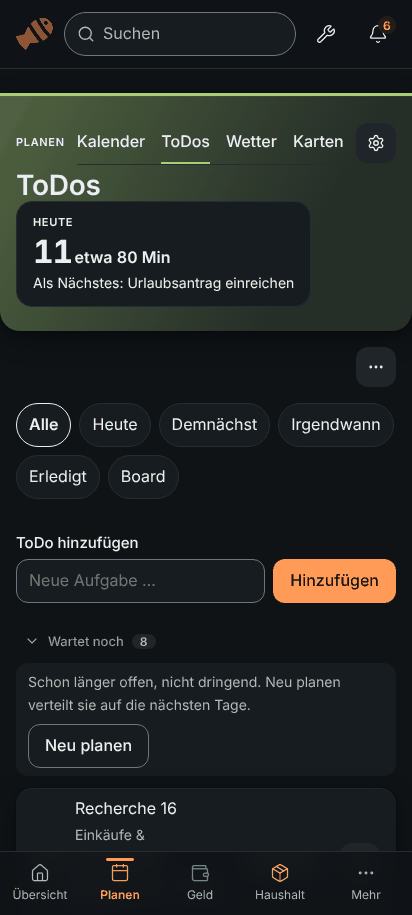
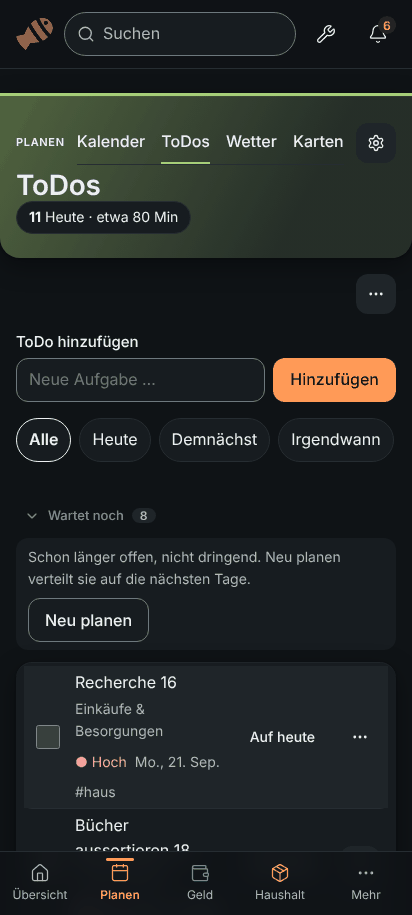
fix(todos): keep the add field and the rows high on a phone (view bar below the add field, one-line Heute card); stimulus baseline for the phone view bar
Claude-Session: https://claude.ai/code/session_019RrxT5jGqn1v3Nuo8286Ce

diff --git a/web/src/modules/todos/routes/TodosPage.tsx b/web/src/modules/todos/routes/TodosPage.tsx
@@ -615,64 +615,6 @@ export default function TodosPage() {
         </HeroSlot>
       ) : null}
 
-      <div className={styles.toolbar}>
-        <div className={styles.tagBar} role="group" aria-label={t.todos.views.label}>
-          {PAGE_VIEWS.map((v) => (
-            <button
-              key={v}
-              type="button"
-              className={styles.tagChip}
-              aria-pressed={pageView === v}
-              onClick={() => setParam('view', v === 'list' ? null : v)}
-            >
-              {v === 'list' ? t.todos.views.all : t.todos.views[v]}
-            </button>
-          ))}
-        </div>
-      </div>
-      {/* Tags are an advanced feature: the chips show in "Mehr Felder" mode or while a tag filters. */}
-      {tagList.length > 0 && (advanced || tag) ? (
-        <div className={styles.tagBar} role="group" aria-label={t.todos.tags.filter}>
-          <button
-            type="button"
-            className={styles.tagChip}
-            aria-pressed={tag === ''}
-            onClick={() => setParam('tag', null)}
-          >
-            {t.todos.tags.all}
-          </button>
-          {tagList.map(([name, n]) => (
-            <button
-              key={name}
-              type="button"
-              className={styles.tagChip}
-              aria-pressed={tag === name}
-              onClick={() => setParam('tag', tag === name ? null : name)}
-            >
-              {`#${name} · ${n}`}
-            </button>
-          ))}
-        </div>
-      ) : null}
-      {project ? (
-        <div className={styles.projectBar} data-testid="project-bar">
-          <div
-            className={styles.projectTrack}
-            role="progressbar"
-            aria-label={currentList?.name}
-            aria-valuemin={0}
-            aria-valuemax={project.total}
-            aria-valuenow={project.done}
-          >
-            <div
-              className={styles.projectFill}
-              style={{ width: `${project.total ? (project.done / project.total) * 100 : 0}%` }}
-            />
-          </div>
-          <span>{t.todos.projectProgress(project.done, project.total)}</span>
-        </div>
-      ) : null}
-
       <PersonFilter usedIds={(tasks ?? []).flatMap((x) => (x.personId ? [x.personId] : []))} />
       <div className={styles.layout}>
         <div className={styles.main}>
@@ -689,6 +631,64 @@ export default function TodosPage() {
               {t.actions.add}
             </Button>
           </form>
+
+          <div className={styles.toolbar}>
+            <div className={styles.viewBar} role="group" aria-label={t.todos.views.label}>
+              {PAGE_VIEWS.map((v) => (
+                <button
+                  key={v}
+                  type="button"
+                  className={styles.tagChip}
+                  aria-pressed={pageView === v}
+                  onClick={() => setParam('view', v === 'list' ? null : v)}
+                >
+                  {v === 'list' ? t.todos.views.all : t.todos.views[v]}
+                </button>
+              ))}
+            </div>
+          </div>
+          {/* Tags are an advanced feature: the chips show in "Mehr Felder" mode or while a tag filters. */}
+          {tagList.length > 0 && (advanced || tag) ? (
+            <div className={styles.tagBar} role="group" aria-label={t.todos.tags.filter}>
+              <button
+                type="button"
+                className={styles.tagChip}
+                aria-pressed={tag === ''}
+                onClick={() => setParam('tag', null)}
+              >
+                {t.todos.tags.all}
+              </button>
+              {tagList.map(([name, n]) => (
+                <button
+                  key={name}
+                  type="button"
+                  className={styles.tagChip}
+                  aria-pressed={tag === name}
+                  onClick={() => setParam('tag', tag === name ? null : name)}
+                >
+                  {`#${name} · ${n}`}
+                </button>
+              ))}
+            </div>
+          ) : null}
+          {project ? (
+            <div className={styles.projectBar} data-testid="project-bar">
+              <div
+                className={styles.projectTrack}
+                role="progressbar"
+                aria-label={currentList?.name}
+                aria-valuemin={0}
+                aria-valuemax={project.total}
+                aria-valuenow={project.done}
+              >
+                <div
+                  className={styles.projectFill}
+                  style={{ width: `${project.total ? (project.done / project.total) * 100 : 0}%` }}
+                />
+              </div>
+              <span>{t.todos.projectProgress(project.done, project.total)}</span>
+            </div>
+          ) : null}
 
           {inboxOpen.length > 0 && (selected === ALL || selected === INBOX_ID) ? (
             <div className={styles.waiting} data-testid="todos-inbox">

diff --git a/web/src/modules/todos/components/TodayCard.tsx b/web/src/modules/todos/components/TodayCard.tsx
@@ -1,3 +1,4 @@
+import { useMediaQuery } from '@/ui';
 import { HeroFigure } from '@/ui/identity';
 import { t } from '@/strings';
 import { pickNext, type PickTask } from '../next';
@@ -13,6 +14,8 @@ type CardTask = PickTask & Pick<Task, 'title' | 'startDate'>;
  * the numbers are text. Empty day = a calm sentence instead of a zero.
  */
 export function TodayCard({ tasks, day }: { tasks: readonly CardTask[]; day: string }) {
+  // A phone keeps the head short: one line instead of the three-line figure.
+  const narrow = useMediaQuery('(max-width: 700px)');
   const today = tasks.filter((x) => !x.parentId && viewOf(x, day) === 'today');
   const minutes = today.reduce((sum, x) => sum + (x.estimateMin ?? 0), 0);
   const next = pickNext(today, day);
@@ -21,6 +24,14 @@ export function TodayCard({ tasks, day }: { tasks: readonly CardTask[]; day: str
     : today.length === 0
       ? t.todos.todayCard.done
       : undefined;
+  if (narrow)
+    return (
+      <p className={styles.todayLine} data-testid="today-card">
+        <strong data-testid="today-count">{today.length}</strong> {t.todos.todayCard.label}
+        {minutes > 0 ? ` · ${t.todos.todayCard.minutes(minutes)}` : ''}
+        <span className="sr-only">{`. ${t.todos.todayCard.count(today.length)}`}</span>
+      </p>
+    );
   return (
     <div className={styles.todayCard} data-testid="today-card">
       <HeroFigure

diff --git a/web/src/modules/todos/routes/todos.module.css b/web/src/modules/todos/routes/todos.module.css
@@ -360,3 +360,27 @@
     animation: none;
   }
 }
+
+/* The view chips are one scrollable row, so the list stays high on a phone. */
+.viewBar {
+  display: flex;
+  flex-wrap: nowrap;
+  gap: var(--space-2);
+  overflow-x: auto;
+  padding-bottom: var(--space-1);
+  margin-bottom: var(--space-3);
+}
+.viewBar .tagChip {
+  flex: none;
+}
+
+.todayLine {
+  margin: 0;
+  padding: var(--space-1) var(--space-3);
+  border-radius: var(--radius-full);
+  background: var(--surface);
+  border: 1px solid var(--border);
+  color: var(--text);
+  font-size: var(--text-sm);
+  width: fit-content;
+}
